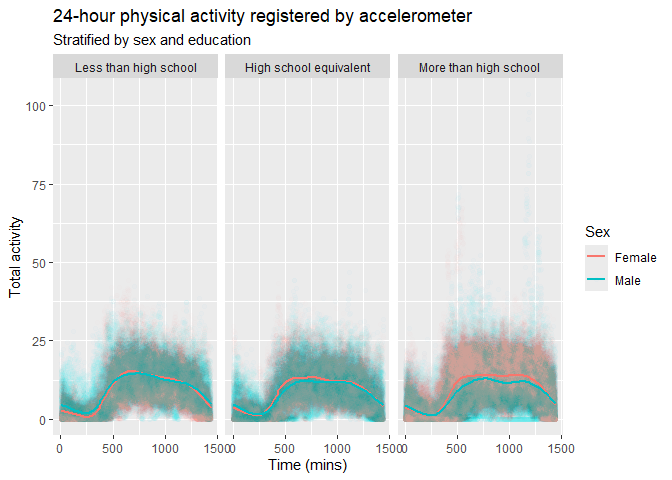
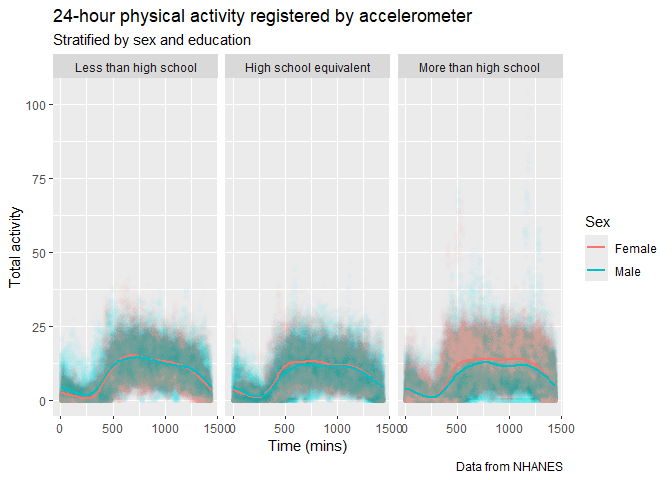
Added total rides for second table and captions for NHANES data-derived graphs

diff --git a/p8105_hw3_jt3466.md b/p8105_hw3_jt3466.md
@@ -366,6 +366,7 @@ mims_df |>
   labs(
     title = "Age distributions of participants",
     subtitle = "Stratified by sex and education",
+    caption = "Data from NHANES",
     y = "Age (years)", 
     x = "Sex", 
     fill = "Sex") +
@@ -423,6 +424,7 @@ mims_df |>
   labs(
     title = "Total physical activity registered by accelerometer over 24 hours",
     subtitle = "Stratified by sex and education",
+    caption = "Data from NHANES",
     y = "Total activity", 
     x = "Age (years)", 
     color = "Sex"
@@ -478,6 +480,7 @@ mims_df |>
   labs(
     title = "24-hour physical activity registered by accelerometer",
     subtitle = "Stratified by sex and education",
+    caption = "Data from NHANES",
     y = "Total activity", 
     x = "Time (mins)", 
     color = "Sex", 
@@ -603,18 +606,20 @@ citi_df |>
     names_prefix = "total_rides_",
     values_from = total_rides
   ) |> 
-  knitr::kable(col.names = c("Year", "Month", "Number of rides from casual users", "Number of rides from members")) 
+  janitor::adorn_totals(c("row", "col")) |> 
+  knitr::kable(col.names = c("Year", "Month", "Number of rides from casual users", "Number of rides from members", "Total number of rides")) 
 ```
 
     ## `summarise()` has grouped output by 'year', 'month'. You can override using the
     ## `.groups` argument.
 
-| Year | Month   | Number of rides from casual users | Number of rides from members |
-|:-----|:--------|----------------------------------:|-----------------------------:|
-| 2020 | January |                               984 |                        11436 |
-| 2020 | July    |                              5637 |                        15411 |
-| 2024 | January |                              2108 |                        16753 |
-| 2024 | July    |                             10894 |                        36262 |
+| Year | Month | Number of rides from casual users | Number of rides from members | Total number of rides |
+|:---|:---|---:|---:|---:|
+| 2020 | January | 984 | 11436 | 12420 |
+| 2020 | July | 5637 | 15411 | 21048 |
+| 2024 | January | 2108 | 16753 | 18861 |
+| 2024 | July | 10894 | 36262 | 47156 |
+| Total | \- | 19623 | 79862 | 99485 |
 
 Understandably, there are the least rides taken early on in January
 2020, likely due to social distancing. However, there was a not much a
